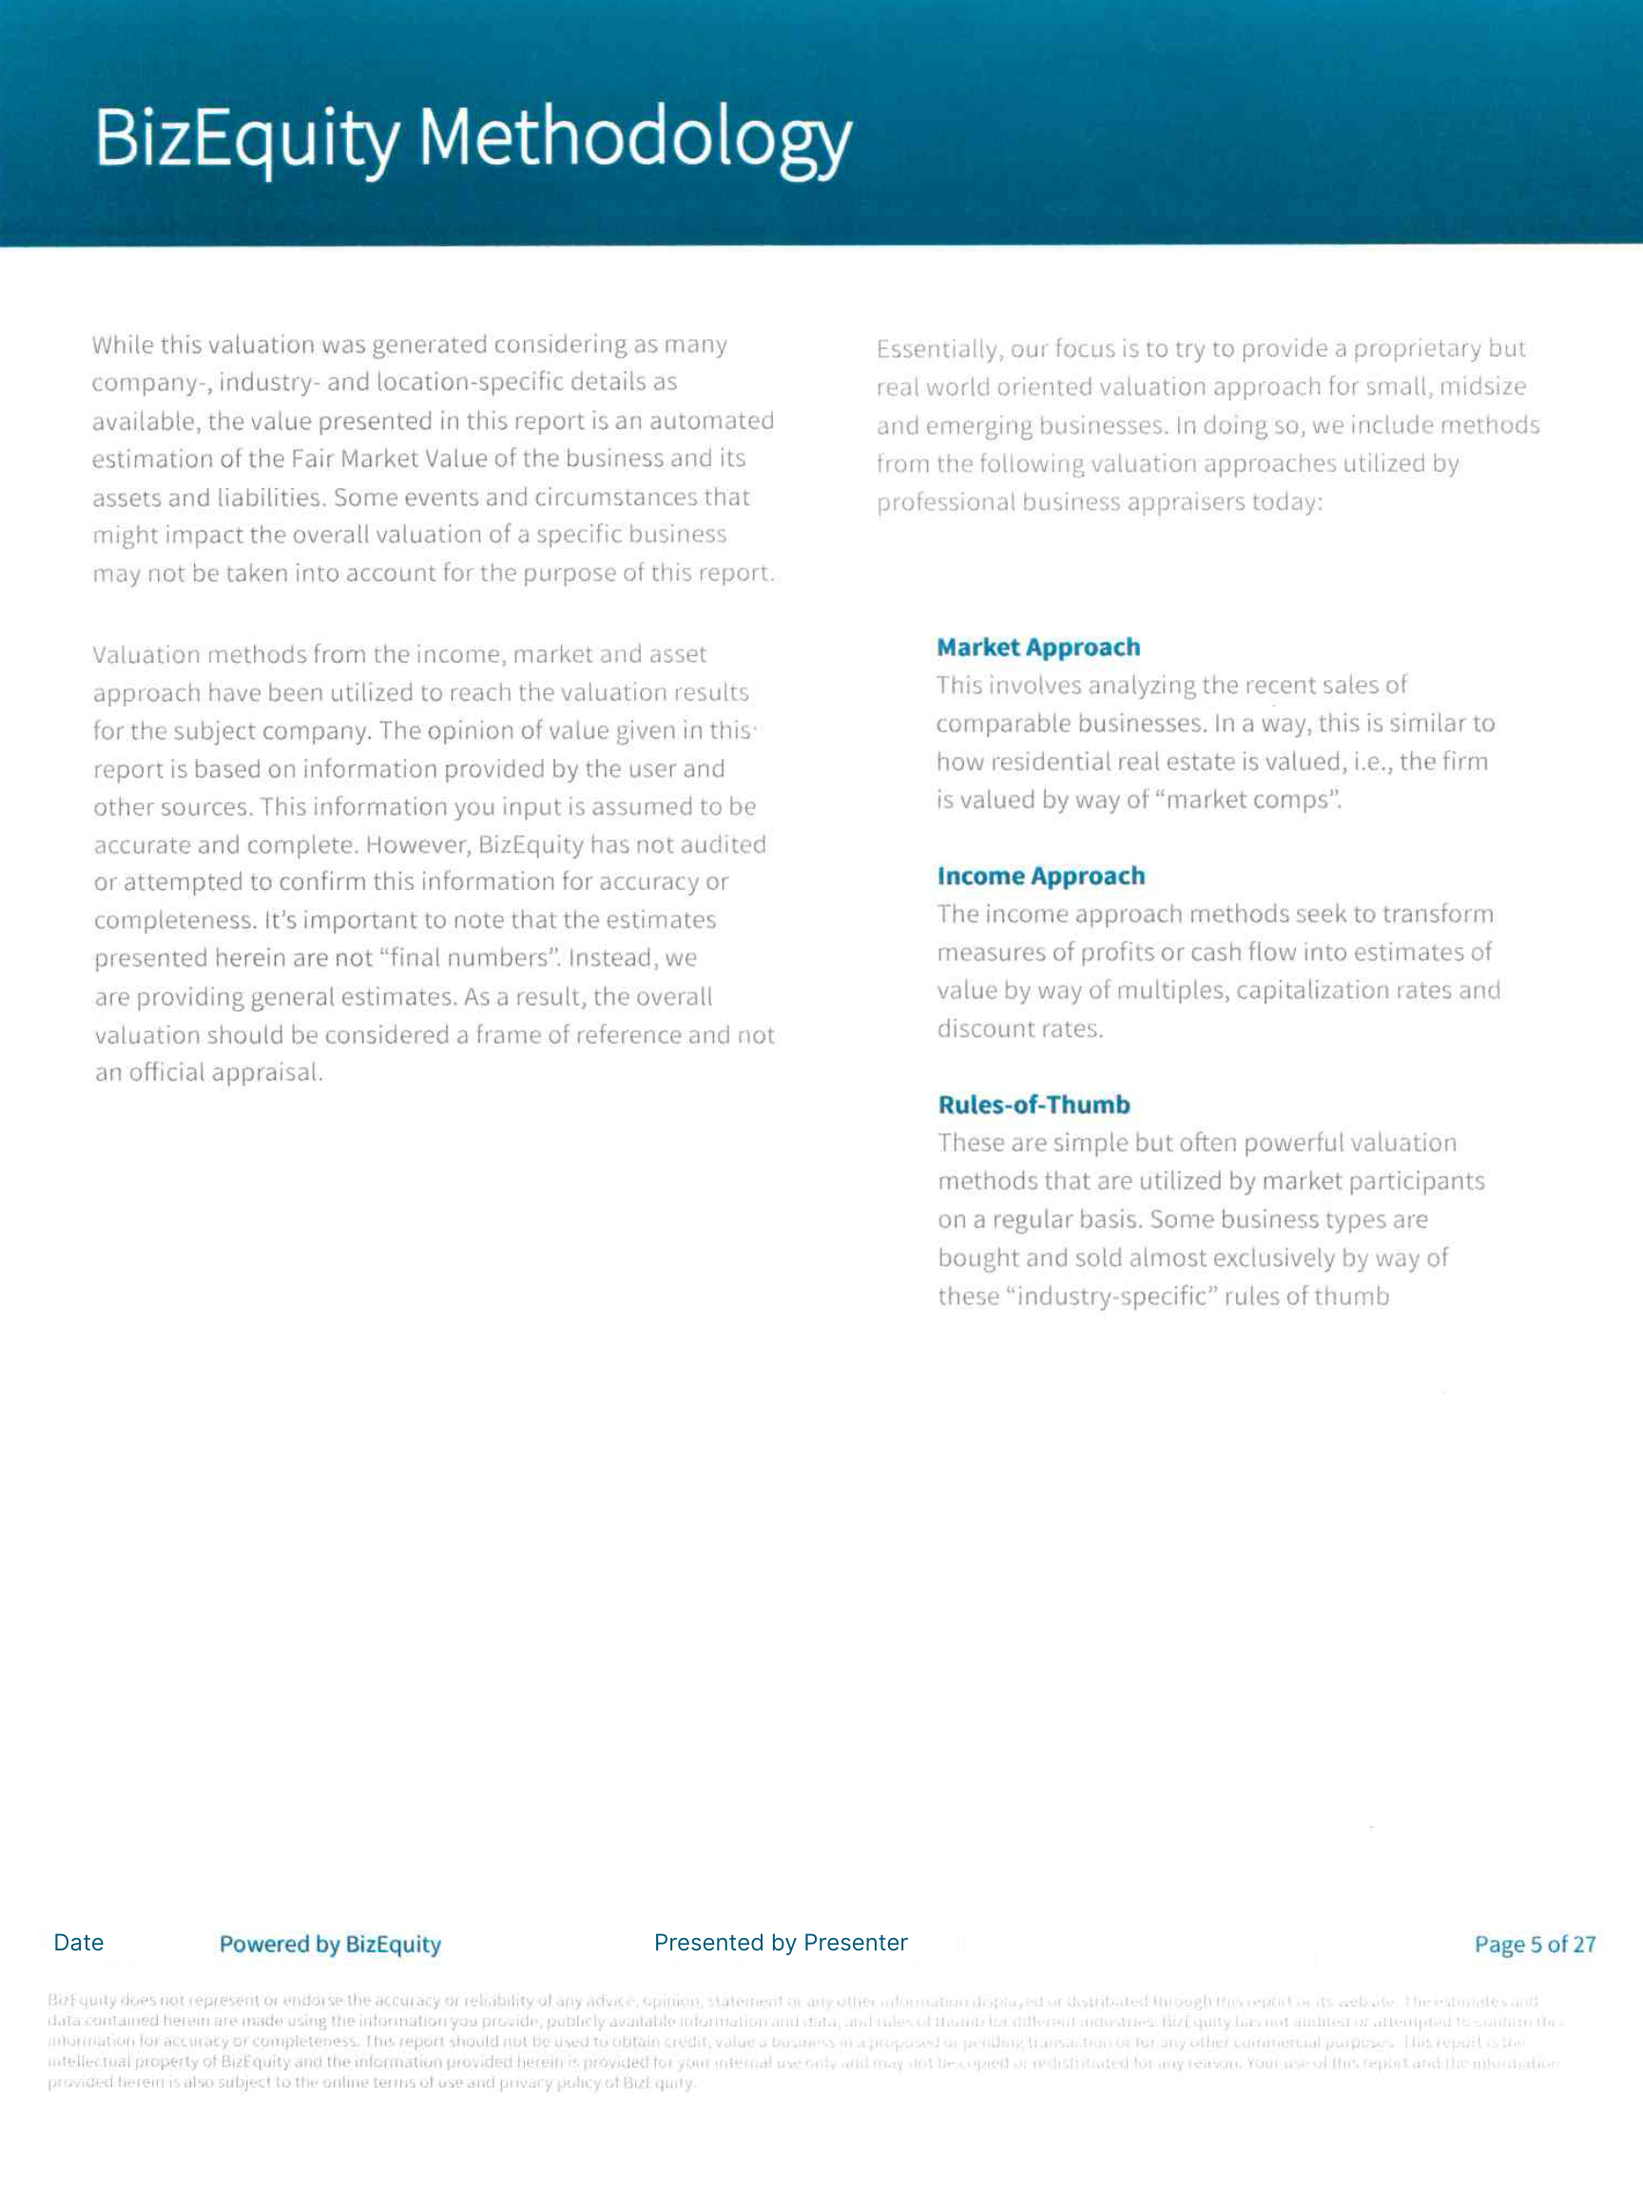
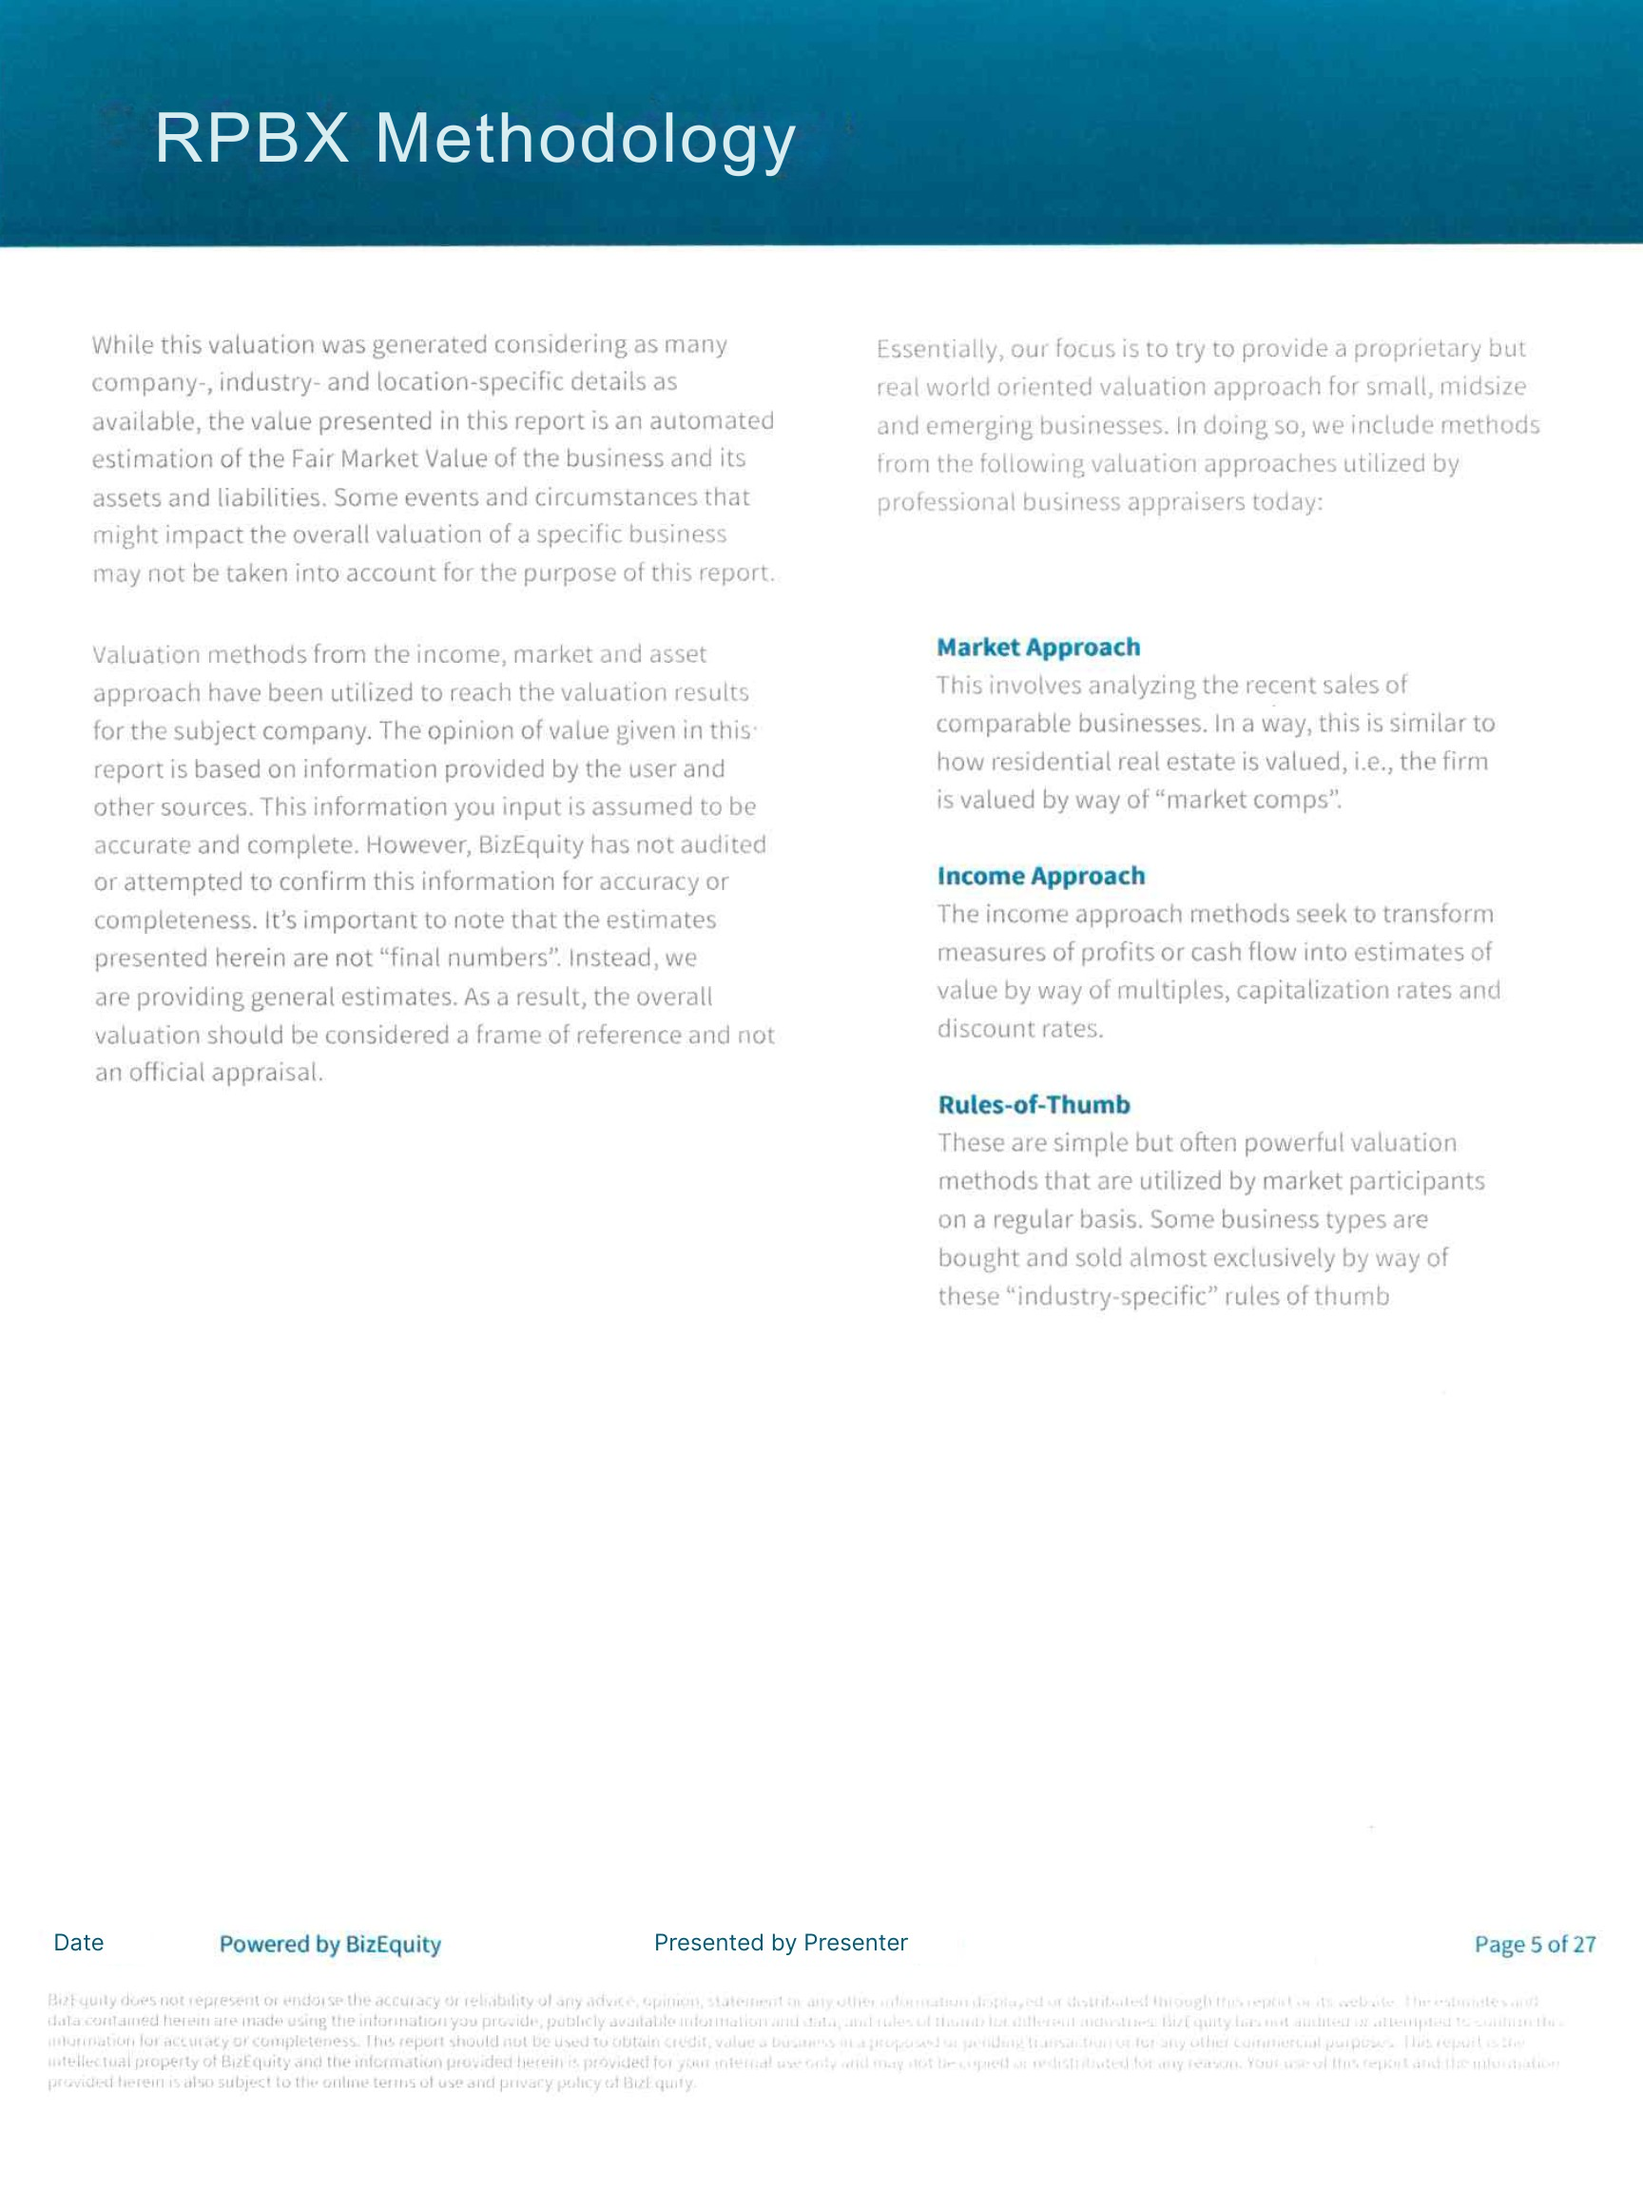
Fixed valuation pricing for members, changed image for valuation slide on business page. and fixed turnstile errors

Changed region(s): [[0.0625, 0.0312, 0.5312, 0.0938]]

diff --git a/src/app/components/TurnstileWidget.tsx b/src/app/components/TurnstileWidget.tsx
@@ -1,89 +1,96 @@
 "use client";
 
-import {useEffect, useRef} from "react";
+import { useEffect, useRef } from "react";
+
+type TurnstileTheme = "light" | "dark" | "auto";
+type TurnstileSize = "normal" | "compact" | "invisible";
 
 type TurnstileRenderOptions = {
-    sitekey: string | undefined;
-    callback: (token: string) => void;
-    action?: string;
-    theme?: "light" | "dark" | "auto";
-    size?: "normal" | "compact" | "invisible"
+  sitekey: string;
+  callback: (token: string) => void;
+  action?: string;
+  theme?: TurnstileTheme;
+  size?: TurnstileSize;
+  // Optional extras Turnstile supports (safe to keep typed + optional)
+  appearance?: "always" | "execute" | "interaction-only";
+  language?: string;
+  retry?: "auto" | "never";
+  "retry-interval"?: number;
+  "refresh-expired"?: "auto" | "manual" | "never";
 };
 
 declare global {
-    interface Window {
-        onTurnstileSuccess?: (token: string) => void;
-        turnstile?: {
-            render: (container: HTMLElement, options: TurnstileRenderOptions) => void;
-            reset: (widgetId?: string) => void;
-        };
+  interface Window {
+    turnstile?: {
+      render: (container: HTMLElement, options: TurnstileRenderOptions) => string; // returns widgetId
+      reset: (widgetId?: string) => void;
+      remove: (widgetId: string) => void;
+      execute?: (widgetId: string) => void;
+    };
+  }
+}
+
+type Props = {
+  onVerify: (token: string) => void;
+  action?: string;
+};
+
+export function TurnstileWidget({ onVerify, action }: Props) {
+  const containerRef = useRef<HTMLDivElement | null>(null);
+  const widgetIdRef = useRef<string | null>(null);
+  const scriptLoadedRef = useRef(false);
+
+  useEffect(() => {
+    const siteKey = process.env.NEXT_PUBLIC_TURNSTILE_SITE_KEY;
+    if (!siteKey) {
+      console.warn("NEXT_PUBLIC_TURNSTILE_SITE_KEY is not set");
+      return;
     }
-}
 
-type TurnstileWidgetProps = {
-    onVerify: (token: string) => void;
-    action?: string; // "newsletter" or "advisor_contact"
-}
+    const renderOnce = () => {
+      const container = containerRef.current;
+      const ts = window.turnstile;
+      if (!container || !ts) return;
+      if (widgetIdRef.current) return; // prevents double render
 
-export function TurnstileWidget({ onVerify, action }: TurnstileWidgetProps){
+      widgetIdRef.current = ts.render(container, {
+        sitekey: siteKey,
+        callback: (token) => onVerify(token),
+        action: action ?? "form_submit",
+        theme: "auto",
+        size: "invisible",
+      });
+    };
 
-    const containerRef = useRef<HTMLDivElement | null>(null);
+    const existing = document.querySelector<HTMLScriptElement>(
+      'script[src="https://challenges.cloudflare.com/turnstile/v0/api.js"]'
+    );
 
-    useEffect(() => {
+    if (!existing) {
+      const s = document.createElement("script");
+      s.src = "https://challenges.cloudflare.com/turnstile/v0/api.js";
+      s.async = true;
+      s.defer = true;
+      s.onload = () => {
+        scriptLoadedRef.current = true;
+        renderOnce();
+      };
+      document.head.appendChild(s);
+    } else {
+      if (window.turnstile) renderOnce();
+      else if (!scriptLoadedRef.current) {
+        existing.addEventListener("load", renderOnce, { once: true });
+      }
+    }
 
-        const siteKey = process.env.NEXT_PUBLIC_TURNSTILE_SITE_KEY;
+    return () => {
+      const id = widgetIdRef.current;
+      if (id && window.turnstile?.remove) {
+        window.turnstile.remove(id);
+      }
+      widgetIdRef.current = null;
+    };
+  }, [onVerify, action]);
 
-        if (!process.env.NEXT_PUBLIC_TURNSTILE_SITE_KEY){
-            console.warn("NEXT_PUBLIC_TURNSTILE_SITE_KEY is not set");
-            return;
-        }
-
-        window.onTurnstileSuccess = (token: string) => {
-            onVerify(token);
-        };
-
-        const existingScript = document.querySelector<HTMLScriptElement>(
-            `script[src="https://challenges.cloudflare.com/turnstile/v0/api.js"]`
-        );
-
-        const renderWidget = () => {
-            if (!containerRef.current || !window.turnstile) return;
-
-            window.turnstile.render(containerRef.current, {
-                sitekey: siteKey,
-                callback: (token: string) => {
-                    onVerify(token);
-                },
-                action: action ?? "form_submit",
-                theme: "auto",
-                size: "invisible",
-            });
-        };
-
-        if (!existingScript){
-            const script = document.createElement("script");
-            script.src = "https://challenges.cloudflare.com/turnstile/v0/api.js";
-            script.async = true;
-            script.defer = true;
-            script.onload = renderWidget;
-            document.head.appendChild(script);
-        } else {
-            if (window.turnstile) {
-                renderWidget();
-            } else {
-                existingScript.addEventListener("load", renderWidget, { once: true});
-            }
-        }
-
-        return () => {
-            if (window.onTurnstileSuccess){
-                delete window.onTurnstileSuccess;
-            }
-        };
-    }, [onVerify, action]);
-
-
-    return <div ref={containerRef} />;
-
-
+  return <div ref={containerRef} />;
 }

diff --git a/src/app/activate/activateform.tsx b/src/app/activate/activateform.tsx
@@ -1,4 +1,5 @@
 "use client";
+import { TurnstileWidget } from "@/app/components/TurnstileWidget";
 import * as React from "react";
 import { Eye, EyeOff } from "lucide-react";
 import Link from "next/link";
@@ -6,11 +7,28 @@ import Link from "next/link";
 export function ActivateForm() {
     const lookup = process.env.NEXT_PUBLIC_STRIPE_LOOKUP_BUSINESS_LEGACY ?? "business_monthly";
     const [showPw, setShowPw] = React.useState(false);
+    const [turnstileToken, setTurnstileToken] = React.useState<string | null>(null);
+    const [errorMsg, setErrorMsg] = React.useState<string | null>(null);
+
+    const formRef = React.useRef<HTMLFormElement | null>(null);
+
+    const handleSubmit = (e: React.FormEvent<HTMLFormElement>) => {
+        if (!turnstileToken){
+            e.preventDefault();
+            setErrorMsg("Verification failed. Please refresh and try again.");
+            return;
+        }
+
+        setErrorMsg(null);
+        e.preventDefault();
+        formRef.current?.submit();
+    }
 
     return (
-        <form method="post" action="/api/subscribe" className="space-y-4">
+        <form ref={formRef} method="post" action="/api/subscribe" className="space-y-4" onSubmit={handleSubmit}>
             <input name="lookup" type="hidden" value={lookup} />
             <input name="trial_days" type="hidden" value="30" />
+            <input type="hidden" name="turnstile_token" value={turnstileToken ?? ""} />
 
             <div className="grid grid-cols-2 gap-4">
                 <div>
@@ -49,6 +67,16 @@ export function ActivateForm() {
                     )}
                 </button>
             </div>
+            <TurnstileWidget 
+                action="signup"
+                onVerify={(token) => setTurnstileToken(token)}
+            />
+
+            {errorMsg && (
+                <p className="text-sm text-red-600" aria-live="polite">
+                {errorMsg}
+                </p>
+            )}
 
             <button type="submit" className="w-full bg-[#60BC9B] hover:bg-[#4da685] text-white font-bold py-4 rounded-full text-lg shadow-lg hover:shadow-xl transform hover:-translate-y-0.5 transition-all duration-200 flex items-center justify-center gap-2 group mt-6 cursor-pointer">
                 Claim 30 Days Free

diff --git a/src/lib/evaluations/pricing.ts b/src/lib/evaluations/pricing.ts
@@ -12,7 +12,6 @@ type SubRowLite = {
 };
 
 const isActive = (s: SubRowLite) => s.status === "active";
-const isTrial  = (s: SubRowLite) => s.status === "trialing";
 
 // ---- helpers to safely read from JSON-like metadata (no `any`) ----
 function isPlainObject(v: unknown): v is Record<string, unknown> {
@@ -65,7 +64,8 @@ export async function pickEvaluationPriceId(supabase: SB, userId: string): Promi
   if (!subs || subs.length === 0) return PUBLIC;
 
   const eligibleSub = subs.find(
-    (s) => isActive(s) && !isTrial(s) && isBusinessPlatformByPriceMeta(s)
+    //removed istrialing as currently all biz legacy members are trialing, should have access to discounted valuation.
+    (s) => isActive(s) && isBusinessPlatformByPriceMeta(s)
   );
 
   if (eligibleSub) {
